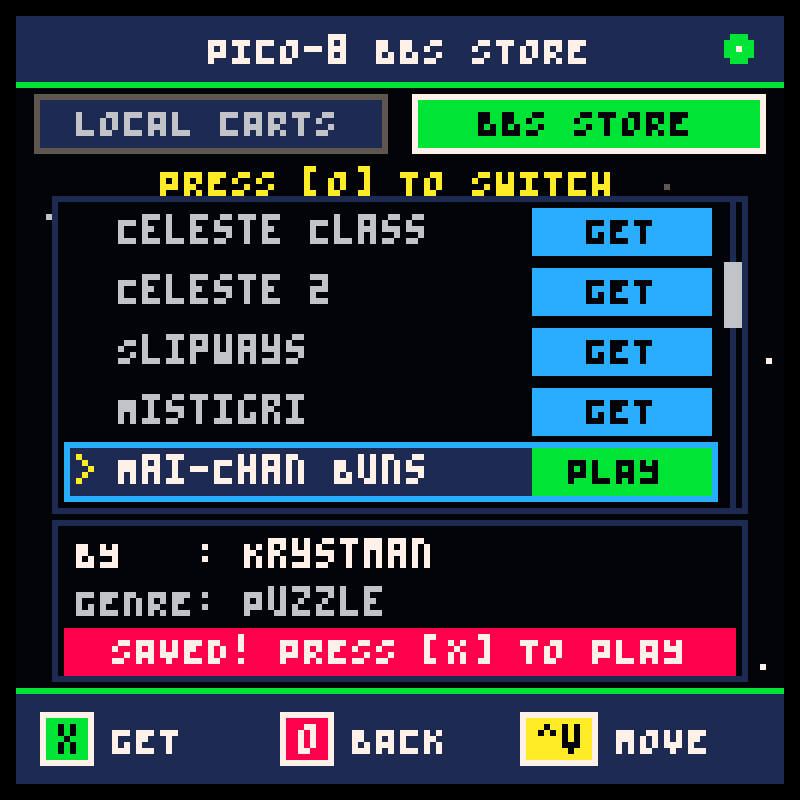
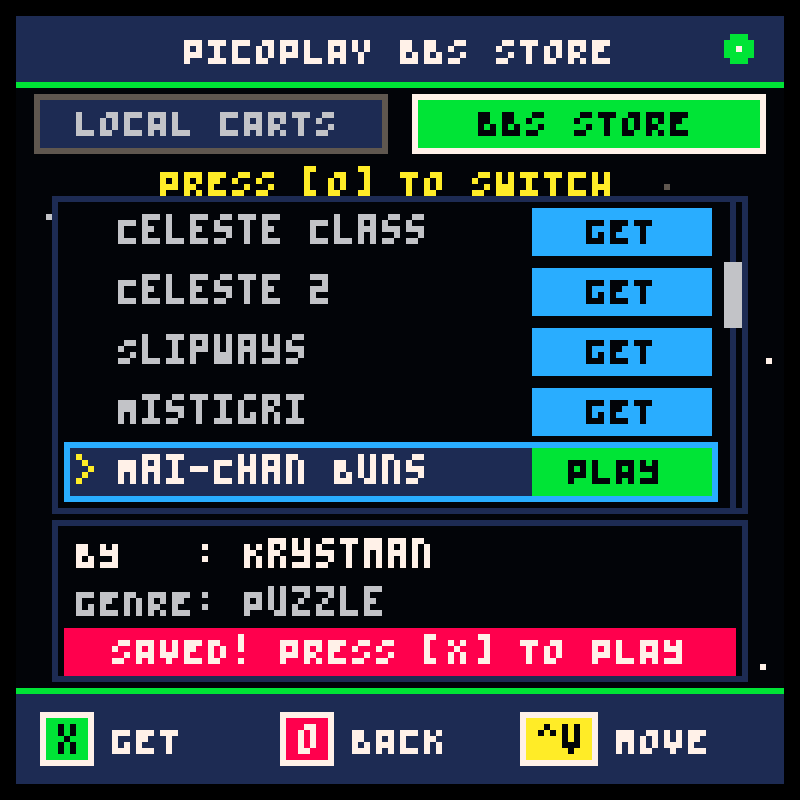
feat!: rebrand to PicoPlay (PPLA00008), fix PS4 SDL2 launch & read-only cart directory

Changed region(s): [[0.5312, 0.0312, 0.7812, 0.0938], [0.2188, 0.0312, 0.5, 0.0938]]

diff --git a/tools/get_pico.py b/tools/get_pico.py
@@ -1,6 +1,6 @@
 #!/usr/bin/env python3
 """
-PICO-8 PS4 BBS Cartridge Explorer & Downloader
+PicoPlay BBS Cartridge Explorer & Downloader
 Allows searching, browsing and downloading public PICO-8 carts from Lexaloffle BBS.
 """
 import sys
@@ -8,7 +8,7 @@ import os
 import re
 import urllib.request
 
-USER_AGENT = "PICO8-PS4/1.0 (PS4 Homebrew by birth1mark)"
+USER_AGENT = "PicoPlay/1.0 (Homebrew by birth1mark)"
 DEST_DIR = os.path.expanduser("~/p8carts")
 
 def get_cart_url(lid):
@@ -35,7 +35,7 @@ def download_cart(lid, filename=None):
             data = resp.read()
             f.write(data)
         print(f"[✓] Saved successfully to: {dest_path} ({len(data)} bytes)")
-        print(f"[✓] Game is now ready in your PICO-8 PS4 library!")
+        print(f"[✓] Game is now ready in your PicoPlay library!")
         return True
     except Exception as e:
         print(f"[✗] Failed to download {lid}: {e}")
@@ -57,7 +57,7 @@ def list_recent():
             author = (re.search(r"by <a [^>]*>(.*?)</a>", item) or [None, "Community"])[1].strip()
             thumb = (re.search(r"/bbs/thumbs/(?:pico8_|pico64_)?([a-zA-Z0-9_\-]+)\.png", item) or [None, "N/A"])[1]
             print(f"{title[:34]:<35} {author[:17]:<18} {thumb}")
-        print("\nTo download any of these to your PICO-8 PS4 library, run:")
+        print("\nTo download any of these to your PicoPlay library, run:")
         print("  python3 tools/get_pico.py get <LID>")
     except Exception as e:
         print(f"[✗] Error fetching feed: {e}")
@@ -70,4 +70,4 @@ if __name__ == "__main__":
     else:
         print("Usage:")
         print("  python3 tools/get_pico.py list         - List recent community games")
-        print("  python3 tools/get_pico.py get <LID>    - Download game by LID to PICO-8 PS4")
+        print("  python3 tools/get_pico.py get <LID>    - Download game by LID to PicoPlay")

diff --git a/platform/ps4/source/PS4Host.cpp b/platform/ps4/source/PS4Host.cpp
@@ -80,11 +80,11 @@ static uint32_t prevPadButtons = 0;
 static SDL_Event event;
 static SDL_Point touchLocation = { 128 / 2, 128 / 2 };
 
-static string _ps4SettingsDir = "/data/pico8-ps4";
-static string _ps4SettingsPrefix = "/data/pico8-ps4/";
-static string _ps4CartDir = "/data/pico8-ps4/carts";
+static string _ps4SettingsDir = "/data/picoplay";
+static string _ps4SettingsPrefix = "/data/picoplay/";
+static string _ps4CartDir = "/data/picoplay/carts";
 static string _ps4CustomBiosLua = 
-    "cartpath = \"/data/pico8-ps4/carts/\"\n"
+    "cartpath = \"/data/picoplay/carts/\"\n"
     "selectbtn = \"x\"\n"
     "pausebtn = \"options\"";
 
@@ -96,11 +96,11 @@ static void ensure_dir(const char* path) {
 }
 
 Host::Host(int windowWidth, int windowHeight) {
-    // Ensure PICO-8 PS4 internal storage paths exist on PS4 /data partition
+    // Ensure PicoPlay internal storage paths exist on PS4 /data partition
     ensure_dir("/data");
-    ensure_dir("/data/pico8-ps4");
-    ensure_dir("/data/pico8-ps4/cdata");
-    ensure_dir("/data/pico8-ps4/carts");
+    ensure_dir("/data/picoplay");
+    ensure_dir("/data/picoplay/cdata");
+    ensure_dir("/data/picoplay/carts");
 
     setPlatformParams(
         WINDOW_SIZE_X,

diff --git a/source/BBSClient.cpp b/source/BBSClient.cpp
@@ -58,7 +58,7 @@ static bool ps4_http_init() {
 static bool ps4_http_download(const char* url, const char* destPath) {
     if (!ps4_http_init()) return false;
 
-    int tpl = sceHttpCreateTemplate(s_libhttpCtxId, "Mozilla/5.0 (PLAYSTATION 4; PICO-8 PS4)", ORBIS_HTTP_VERSION_1_1, 1);
+    int tpl = sceHttpCreateTemplate(s_libhttpCtxId, "Mozilla/5.0 (PLAYSTATION 4; PicoPlay)", ORBIS_HTTP_VERSION_1_1, 1);
     if (tpl < 0) return false;
 
     sceHttpsSetSslCallback(tpl, skipSslCallback, NULL);
@@ -197,7 +197,7 @@ bool BBSClient::DownloadCart(const string& url, const string& destinationPath) {
     curl_easy_setopt(curl, CURLOPT_URL, url.c_str());
     curl_easy_setopt(curl, CURLOPT_WRITEFUNCTION, write_file_callback);
     curl_easy_setopt(curl, CURLOPT_WRITEDATA, fp);
-    curl_easy_setopt(curl, CURLOPT_USERAGENT, "PICO8-PS4/1.0 (PS4 Homebrew by birth1mark)");
+    curl_easy_setopt(curl, CURLOPT_USERAGENT, "PicoPlay/1.0 (Homebrew by birth1mark)");
     curl_easy_setopt(curl, CURLOPT_FOLLOWLOCATION, 1L);
     curl_easy_setopt(curl, CURLOPT_TIMEOUT, 15L);
     curl_easy_setopt(curl, CURLOPT_SSL_VERIFYPEER, 0L);

diff --git a/platform/SDL2Common/source/sdl2basehost.cpp b/platform/SDL2Common/source/sdl2basehost.cpp
@@ -201,9 +201,9 @@ void Host::oneTimeSetup(Audio* audio){
     }
 
 #if defined(__PS4__) || defined(__ORBIS__)
-    window = SDL_CreateWindow("PICO-8 PS4", SDL_WINDOWPOS_UNDEFINED, SDL_WINDOWPOS_UNDEFINED, _windowWidth, _windowHeight, _windowFlags);
+    window = SDL_CreateWindow("PicoPlay", SDL_WINDOWPOS_UNDEFINED, SDL_WINDOWPOS_UNDEFINED, _windowWidth, _windowHeight, _windowFlags);
 #else
-    window = SDL_CreateWindow("PICO-8 PS4", SDL_WINDOWPOS_CENTERED, SDL_WINDOWPOS_CENTERED, _windowWidth, _windowHeight, _windowFlags);
+    window = SDL_CreateWindow("PicoPlay - 8-Bit Fantasy Arcade", SDL_WINDOWPOS_CENTERED, SDL_WINDOWPOS_CENTERED, _windowWidth, _windowHeight, _windowFlags);
 #endif
 	if (!window) 
     { 

diff --git a/source/main.cpp b/source/main.cpp
@@ -86,12 +86,12 @@ int main(int argc, char* argv[])
 
 	if (!downloadLid.empty()) {
 		std::string filename = "bbs_" + downloadLid + ".p8.png";
-		printf("[PICO-8 PS4] Downloading cartridge '%s' from Lexaloffle BBS...\n", downloadLid.c_str());
+		printf("[PicoPlay] Downloading cartridge '%s' from Lexaloffle BBS...\n", downloadLid.c_str());
 		if (BBSClient::DownloadCartByLid(downloadLid, filename, host->getCartDirectory())) {
 			cart = strdup(filename.c_str());
 			loadCart = true;
 		} else {
-			printf("[PICO-8 PS4] Failed to download cartridge '%s' from BBS.\n", downloadLid.c_str());
+			printf("[PicoPlay] Failed to download cartridge '%s' from BBS.\n", downloadLid.c_str());
 		}
 	}
 

diff --git a/tools/make_sfo.py b/tools/make_sfo.py
@@ -7,14 +7,14 @@ import struct
 import sys
 import os
 
-def create_sfo(title_id="PICO00008", title="PICO-8 PS4", version="01.00"):
+def create_sfo(title_id="PPLA00008", title="PicoPlay", version="01.00"):
     # SFO Entry Formats:
     #   0x0404 = Integer (uint32, 4 bytes)
     #   0x0204 = Utf8 (null-terminated UTF-8 string; val_len = len(str) + 1, padded to max_len in data table)
     FMT_INT  = 0x0404
     FMT_UTF8 = 0x0204
 
-    content_id = f"IV0000-{title_id}_00-PICO8PS4PLAYER00"
+    content_id = f"IV0000-{title_id}_00-PICOPLAYPS400000"
     entries = {
         "APP_TYPE":           (FMT_INT,  4,   1),
         "APP_VER":            (FMT_UTF8, 8,   version),

diff --git a/tools/make_gp4.py b/tools/make_gp4.py
@@ -1,14 +1,14 @@
 #!/usr/bin/env python3
 """
-Generates project.gp4 for PICO-8 PS4 PKG creation.
+Generates project.gp4 for PicoPlay PS4 PKG creation.
 Scans pkg/ directory for eboot.bin, sce_sys files, and bundled starter carts.
 """
 import os
 import glob
 import sys
 
-def generate_gp4(pkg_dir="pkg", title_id="PICO00008"):
-    content_id = f"IV0000-{title_id}_00-PICO8PS4PLAYER00"
+def generate_gp4(pkg_dir="pkg", title_id="PPLA00008"):
+    content_id = f"IV0000-{title_id}_00-PICOPLAYPS400000"
     
     files = []
     # Standard mandatory OpenOrbis PS4 PKG files

diff --git a/source/DefaultCart.h b/source/DefaultCart.h
@@ -346,7 +346,7 @@ function classic_draw()
 		-- ARCADE HEADER
 		rectfill(0, 0, 127, 10, 1)
 		line(0, 11, 127, 11, 12)
-		print("PICO-8 PS4 ARCADE", 30, 3, 7)
+		print("PICOPLAY ARCADE", 34, 3, 7)
 
 		-- Power Indicator LED
 		local led_col = (t % 40 < 20) and 11 or 3
@@ -417,7 +417,7 @@ function classic_draw()
 		-- BBS STORE VIEW
 		rectfill(0, 0, 127, 10, 1)
 		line(0, 11, 127, 11, 11)
-		print("PICO-8 BBS STORE", 32, 3, 7)
+		print("PICOPLAY BBS STORE", 28, 3, 7)
 
 		circfill(120, 5, 2, 11)
 		pset(120, 5, 7)

diff --git a/platform/SDL2Desktop/source/SDL2Host.cpp b/platform/SDL2Desktop/source/SDL2Host.cpp
@@ -35,8 +35,8 @@ using namespace std;
 SDL_Event event;
 
 
-string _desktopSdl2SettingsDir = "pico8-ps4";
-string _desktopSdl2SettingsPrefix = "pico8-ps4/";
+string _desktopSdl2SettingsDir = "picoplay";
+string _desktopSdl2SettingsPrefix = "picoplay/";
 string _desktopSdl2customBiosLua = "cartpath = \"~/p8carts/\"\n"
         "selectbtn = \"z\"\n"
         "pausebtn = \"esc\"\n"

diff --git a/source/FakoSettings.h b/source/FakoSettings.h
@@ -222,7 +222,7 @@ function _draw()
 	rectfill(0,0,128,128,1)
 	rectfill(0,0,127,10,0)
 	line(0,11,127,11,12)
-	print("PICO-8 PS4 SETTINGS",26,3,7)
+	print("PICOPLAY SETTINGS",30,3,7)
 	
 
 	color(7)

diff --git a/README.md b/README.md
@@ -1,21 +1,21 @@
-# PICO-8 PS4 🎮
+# PicoPlay 🎮
 **A Native PICO-8 Fantasy Console Player & Arcade for PlayStation 4**
 
-[![Release](https://img.shields.io/github/v/release/birth1mark/pico8-ps4?label=Latest%20PKG%20Release&color=ff004d)](https://github.com/birth1mark/pico8-ps4/releases/latest)
+[![Release](https://img.shields.io/github/v/release/birth1mark/picoplay-ps4?label=Latest%20PKG%20Release&color=ff004d)](https://github.com/birth1mark/picoplay-ps4/releases/latest)
 [![Platform](https://img.shields.io/badge/Platform-PlayStation%204-003791.svg)](https://github.com/OpenOrbis)
 [![SDK](https://img.shields.io/badge/SDK-OpenOrbis%20Toolchain-blue.svg)](https://github.com/OpenOrbis/OpenOrbis-PS4-Toolchain)
 [![License](https://img.shields.io/badge/License-MIT-green.svg)](LICENSE.MD)
-[![Firmware](https://img.shields.io/badge/PS4%20Firmware-5.05%20--%2011.00-brightgreen.svg)](https://github.com/birth1mark/pico8-ps4/releases)
+[![Firmware](https://img.shields.io/badge/PS4%20Firmware-5.05%20--%2011.00-brightgreen.svg)](https://github.com/birth1mark/picoplay-ps4/releases)
 
-**PICO-8 PS4** brings the magical world of PICO-8 indie retrogaming natively to the PlayStation 4. Powered by an optimized C++ SDL2 engine, it delivers pixel-perfect 60 FPS gameplay, full DualShock 4 controller integration, an in-app BBS Store to download cartridges on-the-fly, and an out-of-the-box arcade experience with celebrated community titles like *Celeste Classic*.
+**PicoPlay** brings the magical world of PICO-8 indie retrogaming natively to the PlayStation 4. Powered by an optimized C++ SDL2 engine, it delivers pixel-perfect 60 FPS gameplay, full DualShock 4 controller integration, an in-app BBS Store to download cartridges on-the-fly, and an out-of-the-box arcade experience with celebrated community titles like *Celeste Classic*.
 
 ---
 
 ## 📸 Screenshots
 
-| 🕹 **PICO-8 PS4 Arcade Carousel** | 🌐 **In-App Lexaloffle BBS Store** |
+| 🕹 **PicoPlay Arcade Carousel** | 🌐 **In-App Lexaloffle BBS Store** |
 | :---: | :---: |
-| ![PICO-8 PS4 Arcade Carousel](docs/screenshots/arcade-menu.png) | ![In-App BBS Store](docs/screenshots/bbs-store.png) |
+| ![PicoPlay Arcade Carousel](docs/screenshots/arcade-menu.png) | ![In-App BBS Store](docs/screenshots/bbs-store.png) |
 | ⚡ **1-Click Download & Launch** | 🍓 **Pixel-Perfect 60 FPS Gameplay** |
 | ![1-Click BBS Download](docs/screenshots/bbs-download.png) | ![Celeste Classic Gameplay](docs/screenshots/gameplay-celeste.png) |
 
@@ -26,18 +26,18 @@
 Pre-built packages are ready to install on any jailbroken PlayStation 4 running firmware **5.05 up to 11.00+** (GoldHEN / Mira / HEN):
 
 ### 📥 1. Download the PKG
-* **Pre-built Releases:** Download the latest `pico8-ps4.pkg` directly from the [**GitHub Releases**](https://github.com/birth1mark/pico8-ps4/releases) page.
-* **Or Build It Locally:** Run `make pkg` to generate `pico8-ps4.pkg` in the project root in seconds.
+* **Pre-built Releases:** Download the latest `picoplay-ps4.pkg` directly from the [**GitHub Releases**](https://github.com/birth1mark/picoplay-ps4/releases) page.
+* **Or Build It Locally:** Run `make pkg` to generate `picoplay-ps4.pkg` in the project root in seconds.
 
 ### 🕹 2. Step-by-Step PS4 Installation
 1. Format a USB flash drive as **exFAT** or **FAT32**.
-2. Copy `pico8-ps4.pkg` directly to the root of your USB drive (e.g. `X:\pico8-ps4.pkg`).
+2. Copy `picoplay-ps4.pkg` directly to the root of your USB drive (e.g. `X:\picoplay-ps4.pkg`).
 3. Insert the USB drive into your PS4.
 4. On your PS4 (with **GoldHEN** or **HEN** enabled), navigate to:
    * **Settings** ➔ **GoldHEN** ➔ **Package Installer**
    *(or **Settings** ➔ **Debug Settings** ➔ **Game** ➔ **Package Installer**)*
-5. Select `pico8-ps4.pkg` and press **Cross (✕)** to install.
-6. Launch **PICO-8 PS4** from the PS4 Home Screen (XMB) and start playing!
+5. Select `picoplay-ps4.pkg` and press **Cross (✕)** to install.
+6. Launch **PicoPlay** from the PS4 Home Screen (XMB) and start playing!
 
 ---
 
@@ -48,7 +48,7 @@ Pre-built packages are ready to install on any jailbroken PlayStation 4 running 
 - **Full DualShock 4 Integration:** Seamless mapping for D-Pad, Left Analog Stick, Face Buttons, and tactile controls.
 - **Plug-and-Play USB Loading:** Automatically scans and launches `.p8` and `.p8.png` cartridges from USB drives (`/mnt/usb0/pico8/`).
 - **Starter Classics Included:** Ships pre-bundled with open-source masterpieces ready to play without configuration.
-- **Persistent Save States:** Cartridge data and high scores automatically save to `/data/pico8-ps4/cdata/`.
+- **Persistent Save States:** Cartridge data and high scores automatically save to `/data/picoplay/cdata/`.
 - **Homebrew Store / PKG-Zone Compliant:** Built 100% clean-room with the community OpenOrbis toolchain (no copyrighted Sony SDK components).
 
 ---
@@ -79,26 +79,26 @@ You can easily add new PICO-8 cartridges using any of the following methods:
    ```text
    USB Drive -> /pico8/my_game.p8.png
    ```
-   Plug it into your PS4. **PICO-8 PS4** will detect and index your carts immediately!
+   Plug it into your PS4. **PicoPlay** will detect and index your carts immediately!
 
 3. **Internal PS4 Storage (FTP):**
    Copy your `.p8` or `.p8.png` files to:
    ```text
-   /data/pico8-ps4/carts/
+   /data/picoplay/carts/
    ```
 
 ---
 
 ## 🛠 Building from Source
 
-**PICO-8 PS4** features an automated dual-target build system: test locally on your PC/Linux desktop in seconds, or cross-compile and package for PS4 with a single command.
+**PicoPlay** features an automated dual-target build system: test locally on your PC/Linux desktop in seconds, or cross-compile and package for PS4 with a single command.
 
 ### 1. Local Desktop Build (Linux / EndeavourOS)
 Requires `g++`, `SDL2`, and `libcurl`:
 ```bash
 # Compile and run on your desktop
 make desktop
-./platform/SDL2Desktop/pico8-ps4
+./platform/SDL2Desktop/picoplay
 ```
 
 ### 2. PS4 Executable (`eboot.bin`)
@@ -109,12 +109,12 @@ make ps4
 ```
 Generates `platform/ps4/eboot.bin` and stages it in `pkg/eboot.bin`.
 
-### 3. PS4 Fake PKG (`pico8-ps4.pkg`)
+### 3. PS4 Fake PKG (`picoplay-ps4.pkg`)
 Builds the complete installable Fake PKG image with starter games and assets in one step:
 ```bash
 make pkg
 ```
-This automatically compiles the code, creates `eboot.bin`, synthesizes `param.sfo` (`PICO00008`) and `icon0.png`, bundles starter carts, signs PlayGo digests, and seals `pico8-ps4.pkg` in the project root.
+This automatically compiles the code, creates `eboot.bin`, synthesizes `param.sfo` (`PPLA00008`) and `icon0.png`, bundles starter carts, signs PlayGo digests, and seals `picoplay-ps4.pkg` in the project root.
 
 ---
 
@@ -122,7 +122,7 @@ This automatically compiles the code, creates `eboot.bin`, synthesizes `param.sf
 
 This project stands on the shoulders of brilliant creators and open-source contributors:
 
-- **PICO-8 PS4 Port & Development:** **birth1mark**
+- **PicoPlay Port & Development:** **birth1mark**
 - **Core Emulator Engine:** [FAKE-08](https://github.com/jtothebell/fake-08) by **jtothebell** (MIT License).
 - **PlayStation 4 Toolchain:** [OpenOrbis PS4 Toolchain](https://github.com/OpenOrbis/OpenOrbis-PS4-Toolchain) community developers.
 - **PICO-8 Platform & Virtual Architecture:** [Lexaloffle Games](https://www.lexaloffle.com/) (Joseph White / zep).

diff --git a/LEGAL.md b/LEGAL.md
@@ -1,6 +1,6 @@
 # Legal Compliance, Ethics & Attribution Manifesto
 
-**PICO-8 PS4** is an independent, non-commercial, open-source project created by **birth1mark** and the homebrew community. It is designed from the ground up to respect intellectual property, adhere to open-source licenses, and maintain complete compliance with homebrew distribution guidelines (including the PlayStation 4 Homebrew Store / PKG-Zone).
+**PicoPlay** is an independent, non-commercial, open-source project created by **birth1mark** and the homebrew community. It is designed from the ground up to respect intellectual property, adhere to open-source licenses, and maintain complete compliance with homebrew distribution guidelines (including the PlayStation 4 Homebrew Store / PKG-Zone).
 
 ---
 
@@ -8,21 +8,21 @@
 
 A critical requirement for legitimate homebrew on PlayStation 4 is that **no proprietary or leaked Sony Computer Entertainment / Sony Interactive Entertainment SDK code, headers, or libraries may ever be used**.
 
-* **OpenOrbis Toolchain:** **PICO-8 PS4** is built exclusively using the open-source [OpenOrbis PS4 Toolchain](https://github.com/OpenOrbis/OpenOrbis-PS4-Toolchain), which utilizes clean-room reverse-engineered headers, the open-source LLVM/Clang compiler targeting FreeBSD ELF (`x86_64-pc-freebsd12-elf`), and community-implemented system wrappers.
-* **No Decrypted Sony Firmware Files:** No proprietary keys, firmware modules, or copyrighted assets from Sony are packaged or distributed with **PICO-8 PS4**.
-* **Target Audience:** **PICO-8 PS4** is intended for users with legitimately purchased consoles running authorized homebrew-enabled firmware (e.g., GoldHEN on firmwares 5.05, 6.72, 9.00, or 11.00).
+* **OpenOrbis Toolchain:** **PicoPlay** is built exclusively using the open-source [OpenOrbis PS4 Toolchain](https://github.com/OpenOrbis/OpenOrbis-PS4-Toolchain), which utilizes clean-room reverse-engineered headers, the open-source LLVM/Clang compiler targeting FreeBSD ELF (`x86_64-pc-freebsd12-elf`), and community-implemented system wrappers.
+* **No Decrypted Sony Firmware Files:** No proprietary keys, firmware modules, or copyrighted assets from Sony are packaged or distributed with **PicoPlay**.
+* **Target Audience:** **PicoPlay** is intended for users with legitimately purchased consoles running authorized homebrew-enabled firmware (e.g., GoldHEN on firmwares 5.05, 6.72, 9.00, or 11.00).
 
 ---
 
 ## 2. Open-Source Licensing (MIT License)
 
-The core emulator engine of **PICO-8 PS4** is based on the open-source **FAKE-08** project created by **jtothebell**, which is distributed under the permissive **MIT License**.
+The core emulator engine of **PicoPlay** is based on the open-source **FAKE-08** project created by **jtothebell**, which is distributed under the permissive **MIT License**.
 
 Under the terms of the MIT License:
 * Permission is hereby granted, free of charge, to any person obtaining a copy of this software and associated documentation files, to deal in the Software without restriction, including without limitation the rights to use, copy, modify, merge, publish, distribute, sublicense, and/or sell copies of the Software.
 * The above copyright notice and this permission notice shall be included in all copies or substantial portions of the Software.
 
-### Third-Party Libraries Used in PICO-8 PS4:
+### Third-Party Libraries Used in PicoPlay:
 * **z8lua:** Modified Lua 5.2/5.3 implementation supporting PICO-8 syntax and fixed-point math. (MIT License).
 * **LodePNG:** Copyright © 2005-2020 Lode Vandevenne. (Zlib License).
 * **miniz:** Lossless compression library by Rich Geldreich. (Public Domain / MIT License).
@@ -35,28 +35,28 @@ Under the terms of the MIT License:
 ## 3. PICO-8 Trademarks & Fantasy Console Ethics
 
 * **PICO-8** is a registered trademark of **Lexaloffle Games LLP** (created by Joseph White / *zep*).
-* **PICO-8 PS4** is **not** an official Lexaloffle product and is not affiliated with, endorsed by, or sponsored by Lexaloffle Games.
-* **PICO-8 PS4** does not distribute the official PICO-8 binary, its proprietary built-in font ROM, or its development editor. It is an independent clean-room emulator that interprets community-created cartridges.
+* **PicoPlay** is **not** an official Lexaloffle product and is not affiliated with, endorsed by, or sponsored by Lexaloffle Games.
+* **PicoPlay** does not distribute the official PICO-8 binary, its proprietary built-in font ROM, or its development editor. It is an independent clean-room emulator that interprets community-created cartridges.
 
 ---
 
 ## 4. Lexaloffle BBS Public CDN & Network Etiquette
 
-**PICO-8 PS4** includes network capabilities to explore and download publicly shared cartridges from the official Lexaloffle Bulletin Board System (BBS). We strictly adhere to the following community standards:
+**PicoPlay** includes network capabilities to explore and download publicly shared cartridges from the official Lexaloffle Bulletin Board System (BBS). We strictly adhere to the following community standards:
 
 1. **Public Sharing Purpose:** Cartridges posted to the Lexaloffle BBS under the Cartridges category are published by their creators specifically for public web play and community sharing.
-2. **Transparent User-Agent:** All HTTP requests sent by **PICO-8 PS4** explicitly identify themselves as:
+2. **Transparent User-Agent:** All HTTP requests sent by **PicoPlay** explicitly identify themselves as:
    ```text
-   User-Agent: PICO8-PS4/1.0 (PS4 Homebrew by birth1mark)
+   User-Agent: PicoPlay/1.0 (PS4 Homebrew by birth1mark)
    ```
-3. **No Aggressive Scraping:** Cartridges are only fetched individually upon explicit user request. **PICO-8 PS4** never mass-scrapes or floods the Lexaloffle servers.
-4. **Local Persistent Caching:** Once a cartridge is downloaded, it is permanently cached to local storage (`/data/pico8-ps4/carts/` on PS4 or `~/p8carts/` on PC), preventing redundant requests.
+3. **No Aggressive Scraping:** Cartridges are only fetched individually upon explicit user request. **PicoPlay** never mass-scrapes or floods the Lexaloffle servers.
+4. **Local Persistent Caching:** Once a cartridge is downloaded, it is permanently cached to local storage (`/data/picoplay/carts/` on PS4 or `~/p8carts/` on PC), preventing redundant requests.
 
 ---
 
 ## 5. Starter Cartridges & Attribution
 
-**PICO-8 PS4** includes a hand-picked starter collection of free, open-source, or Creative Commons community games. All intellectual property remains with their respective creators:
+**PicoPlay** includes a hand-picked starter collection of free, open-source, or Creative Commons community games. All intellectual property remains with their respective creators:
 
 | Cartridge | Original Creator(s) | License / Rights |
 | :--- | :--- | :--- |
